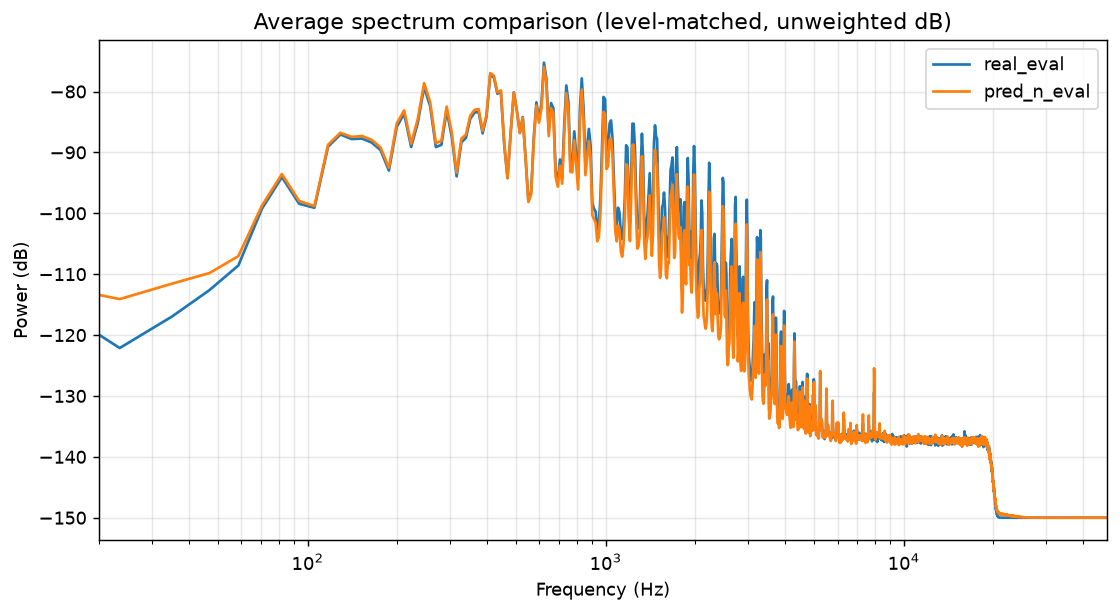
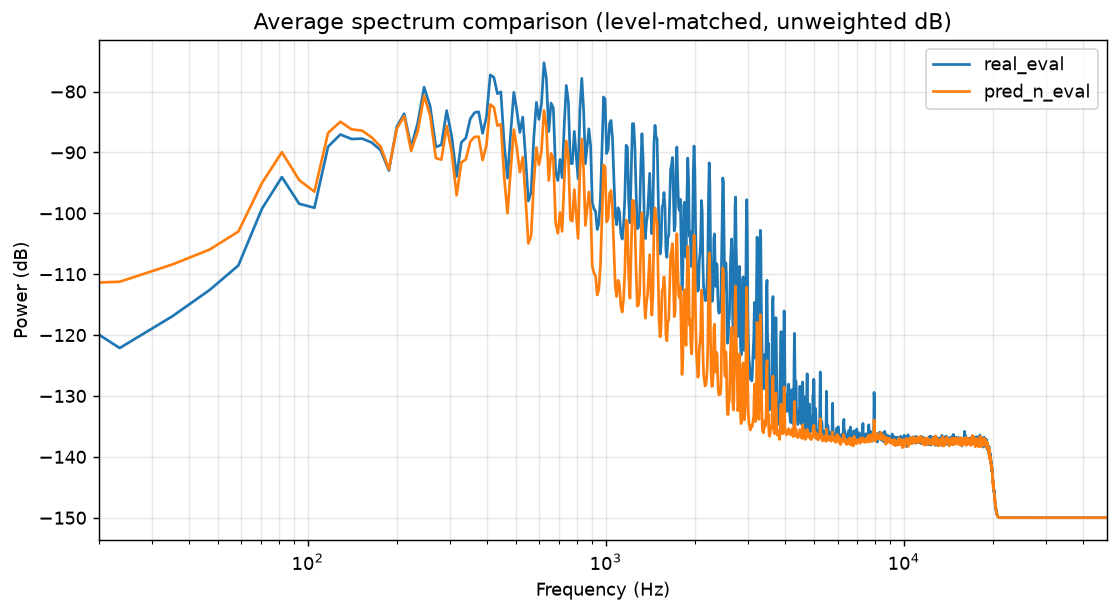
l

Changed region(s): [[0.0912, 0.124, 0.8811, 0.7439], [0.8811, 0.8369, 0.9115, 0.8679]]

diff --git a/black_box/train/train-1.py b/black_box/train/train-1.py
@@ -1,36 +1,45 @@
 import json, torch, random, datetime, copy, os
 import torch.optim as optim
 import torch.nn as nn
+import numpy as np
 from black_box.model.model import ConditionedLSTM, combined_loss
 from common.utils import load_wav
 from eval.spectral_compare import estimate_noise_profile, spectral_subtract
 from common.delay_ops import measure_delay, apply_shift
+from scipy.stats import skew
+
+
+def get_symmetry(x):
+    x = x.flatten()
+    pos = x[x > 0]
+    neg = x[x < 0]
+    pos_rms = np.sqrt(np.mean(pos**2)) if len(pos) else 0
+    neg_rms = np.sqrt(np.mean(neg**2)) if len(neg) else 0
+    p99_9 = np.percentile(x, 99.9)
+    p0_1 = np.percentile(x, 0.1)
+    skewness = skew(x)
+    pn_rms = pos_rms/neg_rms
+    p999Overp001 = p99_9/abs(p0_1)
+    return [skewness, pn_rms, p999Overp001]
+
 
 class Chunk():
     def __init__(self, features, target):
         self.features=features
         self.target=target
 
+
 class Segment():
     def __init__(self, chunks, noise_profile=None):
         self.chunks:list[Chunk]=chunks
         self.noise_profile=noise_profile
     
-    def input_tensor():
-        return torch.cat([chunk['input'] for chunk in self.chunks], dim=1)
+    def input_tensor(self):
+        return torch.cat([chunk.features for chunk in self.chunks], dim=1)
 
-    def target_tensor():
-        return torch.cat([chunk['target'] for chunk in self.chunks], dim=1)
+    def target_tensor(self):
+        return torch.cat([chunk.target for chunk in self.chunks], dim=1)
 
-class TrackBatch():
-    def __init__(self, segment_i, segments):
-
-        self.segment_i=0
-        self.segments:list[Segment]=segments
-
-class TrackBatchGroup():
-    def __init__(self, track_batches):
-        self.track_batches:list[TrackBatch]=track_batches
 
 class Track():
     def __init__(self, segments):
@@ -39,16 +48,9 @@ class Track():
         random.seed(seed)
         random.shuffle(self.segments)
 
-class RandomBatch():
-    def __init__(self):
-        self.segments=[]
-    def shuffle(self, seed=42):
-        random.seed(seed)
-        random.shuffle(self.segments)
-
 
 class DataSet():
-    def __init__(self, manifest_file, dry_file, wet_dir, chunk_seconds, param_names, param_configs, silent_lead_in_seconds=8, trim_noise = True):
+    def __init__(self, manifest_file, dry_file, wet_dir, chunk_seconds, param_names, param_configs, segment_length=20, silent_lead_in_seconds=8, trim_noise = True):
         self.tracks = []
         self.n_segments = 0
         device='cuda' if torch.cuda.is_available() else ('mps' if torch.backends.mps.is_available() else 'cpu')
@@ -66,6 +68,7 @@ class DataSet():
             man_records = [json.loads(line) for line in f if line.strip()]
         for man_record in man_records:
             wet_file = wet_dir + '/' + man_record['id'] + '.wav'
+            print(f"For {wet_file}")
             wet_full, wet_sr = load_wav(wet_file)
             params=man_record['params']
             if trim_noise:
@@ -79,17 +82,15 @@ class DataSet():
             delay_samples, sr = measure_delay(wet_trim, dry_trim, sr, verbose=False)
             dry_aligned, wet_aligned = apply_shift(dry_full, wet_full, delay_samples)
             n_samples = len(dry_aligned)
+            print(f"n_samples {n_samples}")
 
-            chunk_len = 20
             n_chunks = n_samples // chunk_len # number of full chunks in data
-
-            chunks_per_segment=20
-            n_segments = n_chunks // chunks_per_segment
+            print(f"n_chunks {n_chunks}")
 
             # Make chunks for this track
-            chunks = []
-
-
+            chunk_bucket=[]
+            segments=[]
+            print(f"n_chunks {n_chunks}")
             for i in range(n_chunks):
                 s = i * chunk_len
 
@@ -104,7 +105,7 @@ class DataSet():
                     param_def = param_configs[k]
                     if param_def['dtype'] == torch.float32:
                         norm_params[k] = 2 * (v - param_def['min']) / (param_def['max'] - param_def['min']) - 1
-
+                
                 param_tensors = [torch.tensor([norm_params[pn]], dtype=param_configs[pn]['dtype'], device=device) for pn in param_names]
 
                 # Make dry input (batch, seq_len, 1)
@@ -115,84 +116,55 @@ class DataSet():
                 param_views = [p.view(batch, 1, 1).expand(batch, seq_len, 1) for p in param_tensors]
                 features_tensor = torch.cat([dry_view] + param_views, dim=-1)
 
-                chunks.append(Chunk(features_tensor, target_tensor))
+                chunk = Chunk(features_tensor, target_tensor)
 
-            segments = []
-            for i in range(n_segments):
-                s = i * chunk_len
-                segments.append(Segment(chunks[s:s + chunk_len], noise_profile))
-
-            track_segments.apend(segments)
-
-
-        min_segments = min([len(t) for t in track_segments])
-
-        self.n_segments = min_segments
-        for track in track_segments:
-            track = Track(segments[:min_segments])
-            self.tracks.append(track)
-
-    def make_track_batch_groups(self, track_size:int=30) -> list[TrackBatchGroup]: # group for each trackset
-
-        all_track_groups = []
-        for T_i in range(0, len(self.tracks), track_size):
-
-            # Get set of tracks in this batch
-            batch_tracks = self.tracks[T:T + track_size]
-
-            track_batches=[]
-            # For each segment length
-            for s_i in range(self.n_segments):
-                # Build columns of track segments
-                column=[]
-                for track in batch_tracks:
-                    column.append(batch_tracks.segments[s_i])
-                # append column of segments to batch of segments for this track
-                track_batches.append(TrackBatch(s_i, column))
+                chunk_bucket.append(chunk)
+                if (i+1) % segment_length == 0:
+                    segments.append(Segment(chunk_bucket, noise_profile))
+                    chunk_bucket = []
             
-            trackset_batch_group = TrackBatchGroup(track_batches)
-            all_track_groups.append(all_track_groups)
-        return all_track_groups
-
+            self.tracks.append(Track(segments))
         
-    def batch_segments_of_time(self, batch_size=30): # (T, t, d)
+        # resize tracks to equal length
+        self.n_segments = min([len(t.segments) for t in self.tracks])
+        self.tracks = [Track(track.segments[:self.n_segments]) for track in self.tracks]
 
+
+
+    def make_track_batches(self, track_size:int=30): # group for each trackset
+
+        batch_group = []
+        for T_i in range(0, len(self.tracks), track_size):
+            batches=[]    
+            # Get set of tracks in this batch
+            tracks = self.tracks[T_i:T_i + track_size]
+
+            # Make column for s=1
+            for s_i in range(self.n_segments):
+                batch=[]
+                for track in tracks:
+                    batch.append(track.segments[s_i])
+            
+                batches.append(batch)
+            
+            batch_group.append(batches)
+        return batch_group
+
+    def batches_of_random(self, batch_size=30, seed=42):
         batches = []
-        for T in range(0, len(self.tracks), batch_size):
+        seg_bucket = []
 
-            # Choose group of tracks from data
-            tracks_in_batch= self.tracks[T:T + batch_size]
-
-            # for point in time
-            time_columns=[]
-            for t_i in range(self.n_segments):
-                
-                # look through each track
-                time_column=[]
-                for track in track_groups:
-                    # append tracks segment at this point in time to array of segs at this time
-                    time_column.append(track.segments[t_i])
-                time_columns.append(time_column)
+        flat_segments = []
+        for segments in [track.segments for track in self.tracks]:
+            flat_segments += segments
         
-            batches.append(time_columns)
+        for i, segment in enumerate(flat_segments):
+        
+            seg_bucket.append(segment)
+            if (i+1) % batch_size == 0:
+                batches.append(seg_bucket)
+                seg_bucket = []
 
-    def batch_segments_of_track(self, batch_size=30):
-        segments = [track.segments for track in self.tracks] # (s, t)
-        batches = []
-        for segment in segments:
-
-            for t in range(0, len(segments), batch_size):
-                batch = Batch(segment[t:t + batch_size])
-                batches.append(batch)
-
-        return batches
-
-    def batch_segments_of_random(self, batch_size=30, seed=42):
-        batches = []
-        for segment in [track.segments for track in self.tracks]:
-            for t in range(0, len(segments), batch_size):
-                batch = Batch(segment[t:t + batch_size])
-                batches.append(batch)
         return batches
 
 
@@ -269,7 +241,7 @@ def train_manifest(
     lr_patience = 6,
     lr_factor = 0.5,
     batch_size=30,
-    hidden_size=40,
+    hidden_size=20,
     verbose_time=False,
     verbose_performance = False
 ):
@@ -279,8 +251,11 @@ def train_manifest(
     os.makedirs(model_v_output_dir, exist_ok=True)
     
     # Load data
+    print(f"Load")
     train_dataset = DataSet(train_manifest, dry_file, wet_dir, chunk_seconds, param_names, param_configs, silent_lead_in_seconds=silent_lead_in_seconds, trim_noise = trim_noise)
+    print(f"Loaded 1")
     validation_dataset = DataSet(validation_manifest, dry_file, wet_dir, chunk_seconds, param_names, param_configs, silent_lead_in_seconds=silent_lead_in_seconds, trim_noise = trim_noise)
+    print(f"Loaded 2")
 
     # Model info
     model = ConditionedLSTM(input_size=len(param_names) + 1, hidden_size=hidden_size).to(device)
@@ -301,10 +276,11 @@ def train_manifest(
         e_time = datetime.datetime.now()
 
         # Training
-        for batch in train_dataset.batch_segments_of_random(): # batched segments of no specified track or ts
+        model.train()
+        for batch in train_dataset.batches_of_random(): # batched segments of no specified track or ts
             # get 
-            input_batch = torch.cat([segment.input_tensor() for segment in batch.segments], dim=0)
-            target_batch = torch.cat([segment.target_tensor() for segment in batch.segments], dim=0)
+            input_batch = torch.cat([segment.input_tensor() for segment in batch], dim=0)
+            target_batch = torch.cat([segment.target_tensor() for segment in batch], dim=0)
 
             pred, _ = model(input_batch, None)
             pred_for_loss = pred[:, warmup_samples:, :]
@@ -324,24 +300,21 @@ def train_manifest(
         with torch.no_grad():
         # Predictions
             eval_states = None
-            num_tracks = 30 # batch_size
             eval_preds = [[] for _ in range(num_tracks)]
             eval_targets = [[] for _ in range(num_tracks)]
 
             # Per Track group
-            track_batch_groups = validation_dataset.make_track_batch_groups(track_size=30) # -> list[TrackBatchGroup]
-            for track_batch_group in track_batch_groups:
-                
-                # Per column batch
-                for track_batch in track_batch_group.track_batches:
+            batch_groups = validation_dataset.make_track_batches(track_size=30)
+            for batches in batch_groups:
+                for batch in batches:
+                    for segment in batch:
 
-                    # Predict segments of column
-                    input_batch = torch.cat([segment.input_tensor() for segment in track_batch.segments], dim=0)
-                    target_batch = torch.cat([segment.target_tensor() for segment in track_batch.segments], dim=0)
-                    pred_batch, states = model(input_batch, eval_states)
+                        input_batch = torch.cat([segment.input_tensor() for segment in batch], dim=0)
+                        target_batch = torch.cat([segment.target_tensor() for segment in batch], dim=0)
+                        pred_batch, eval_states = model(input_batch, eval_states)
 
                     # Save pred, tgt in memory structure
-                    for i, track in enumerate(track_batch.segments):
+                    for i, track in enumerate(batch):
                         eval_preds[i].append(pred_batch[i:i+1])
                         eval_targets[i].append(target_batch[i:i+1])
 
@@ -435,8 +408,6 @@ if __name__ == '__main__':
         trim_noise=True,
         lr_patience = 6,
         lr_factor = 0.5,
-        batch_size=30,
-        hidden_size=20,
         verbose_time=False,
         verbose_performance = False
     )

diff --git a/black_box/inference/infer.py b/black_box/inference/infer.py
@@ -55,7 +55,7 @@ def infer(
     ):
     device = 'mps' if torch.backends.mps.is_available() else 'cpu'
 
-    model = ConditionedLSTM(input_size=4, hidden_size=40).to(device)
+    model = ConditionedLSTM(input_size=4, hidden_size=20).to(device)
     model.load_state_dict(torch.load(checkpoint, map_location=device))
     model.eval()
 
@@ -109,7 +109,7 @@ if __name__ == "__main__":
     infer(
         dry_path='/home/ubuntu/dsp-modeler/data/input/input.wav',
         out_path='/home/ubuntu/dsp-modeler/data/predictions/p.wav',
-        checkpoint = '/home/ubuntu/dsp-modeler/black_box/model/models/2026-08-12_16-14/model_best.pt',
+        checkpoint = '/home/ubuntu/dsp-modeler/black_box/model/models/2026-08-13_00-14/model_best.pt',
         block_seconds=0.1,  # matches the order of magnitude training already ran thousands of forward passes at without incident
         param_configs={
             'd': {'min': 1, 'max': 7, 'dtype': torch.float32},
